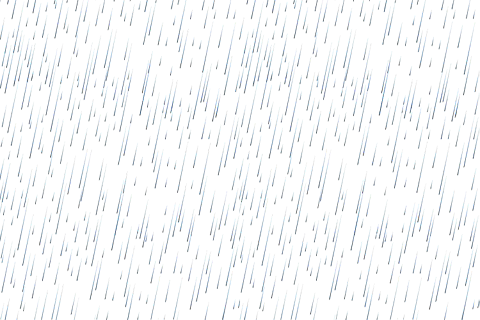
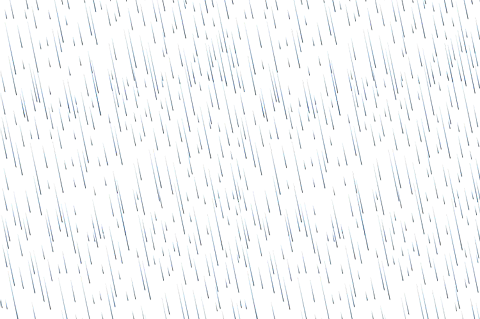
rain direction

Changed region(s): [[0.0, 0.0, 1.0, 1.0]]

diff --git a/src/modules/home/components/3d-background.js b/src/modules/home/components/3d-background.js
@@ -26,7 +26,6 @@ function Background3d() {
 
     function handleMouseMove({ clientX: x, clientY: y }) {
         set({ xys: calc(x, y, onBaby ? 1.25 : 1) })
-        console.log(onBaby);
         const props = elementRef.current.getBoundingClientRect();
 
         const elementX = props.left + 50;

diff --git a/src/modules/home/components/backgroundAnimation.module.scss b/src/modules/home/components/backgroundAnimation.module.scss
@@ -99,7 +99,7 @@
             }
 
             100% {
-                background-position: -20% 100%;
+                background-position: 20% 100%;
             }
         }
 
